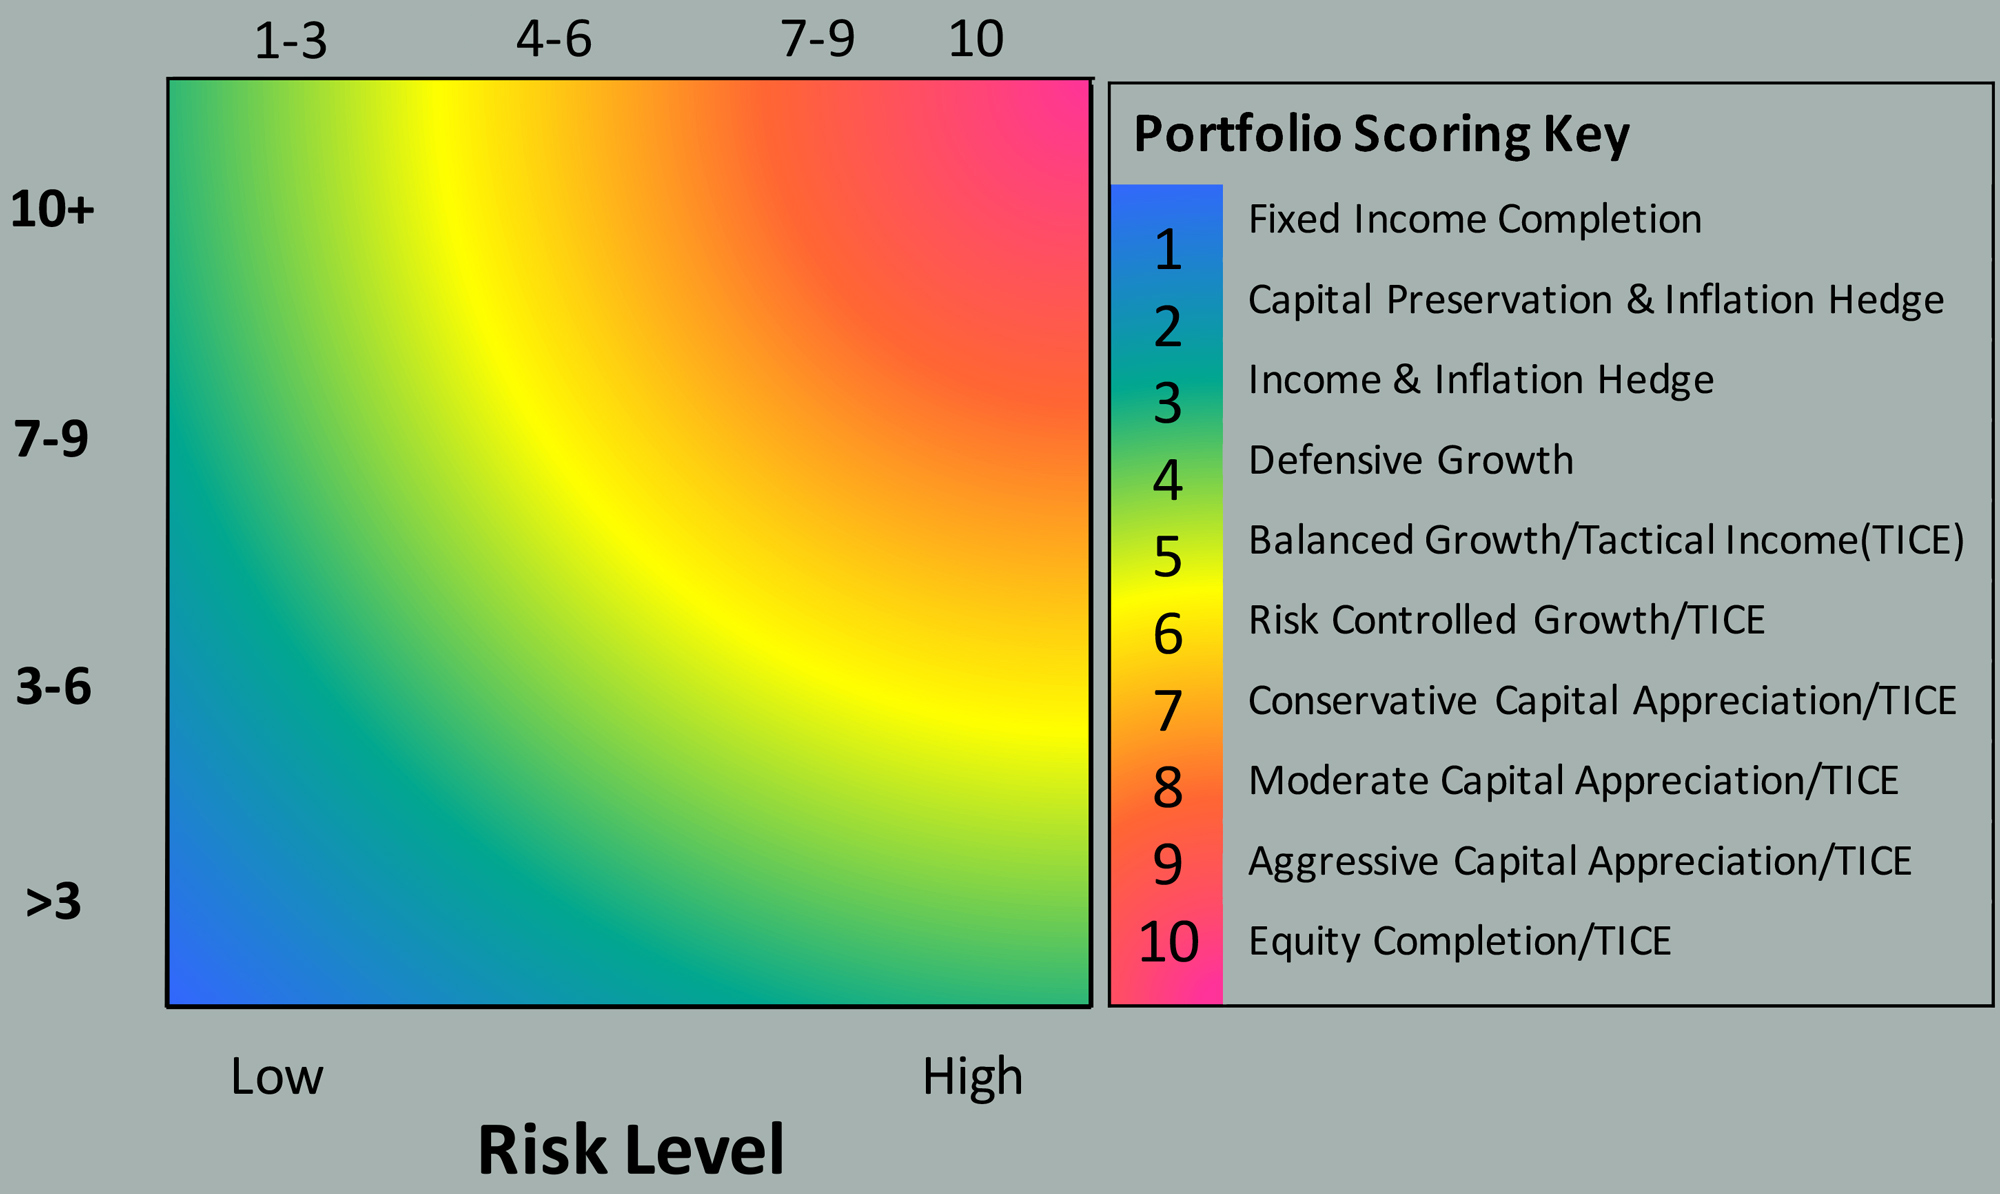
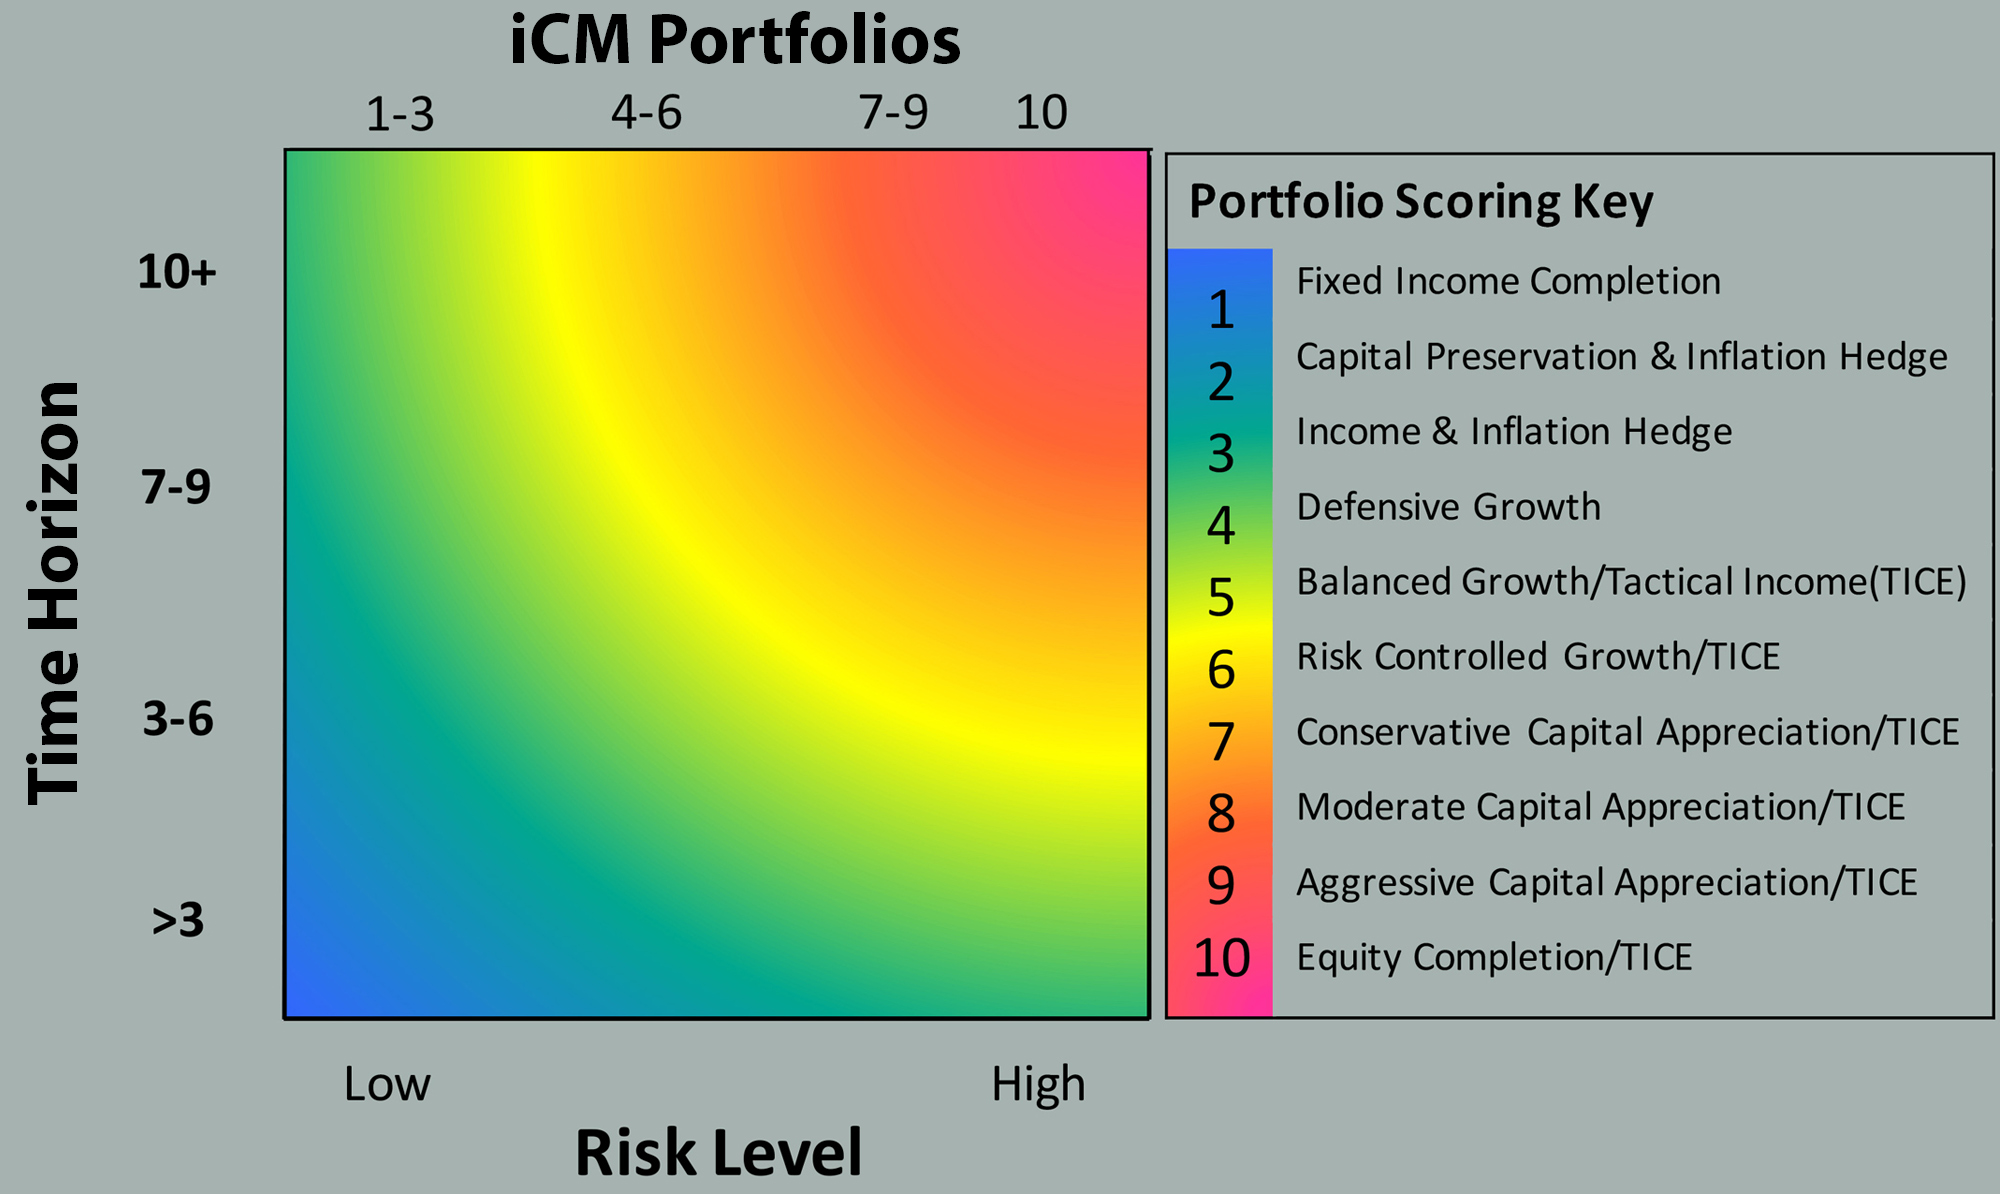
Updated graphic, recalibrate numbers to work with new graphic.

diff --git a/icm_invest/sites/all/themes/icm/templates/system/webform-confirmation-155.tpl.php b/icm_invest/sites/all/themes/icm/templates/system/webform-confirmation-155.tpl.php
@@ -249,21 +249,16 @@ switch(true){
     break;
     
 }
-    
-    
-    
-
-            
 
 echo 'Based on your Time Horizon and Risk Tolerance you may belong in the ' . $strategy_info[$strategy_id]['title'] . '. <p>'. $strategy_info[$strategy_id]['description']  .'</p>';
 //print_r($dataArray);
-$strategy_id = 5;
-$horizon = 12;
+//$strategy_id = 10;
+//$horizon = 10;
 //int_r($submission); ?>
 
 <div style="position:relative">
-<img style="position:absolute; width:8%; bottom:<?php  if($horizon <= 10){echo(14+ 13/2.2*$horizon).'%';}else{echo'77%';}; ?>; left:<?php echo (10/2.6*$strategy_id+7).'%'; ?>;"  src="/sites/all/themes/icm/images/icmlogo.png" />
-<img src="/sites/all/themes/icm/images/risk-matrix.jpg" />
+<img style="position:absolute; width:8%; bottom:<?php  if($horizon <= 10){echo(12+ 13/2.2*$horizon).'%';}else{echo'72%';}; ?>; left:<?php echo (10/2.7*$strategy_id+12).'%'; ?>;"  src="/sites/all/themes/icm/images/icmlogo.png" />
+<img style="width:100%" src="/sites/all/themes/icm/images/risk-matrix.jpg" />
 </div>
 <p><em>All data presented in this matrix is prepared using information we believe to be correct at the time of production, but may be subject to revision and/or adjustment. Graphs, charts, formulas and other data should not be used alone to determine investment decisions without considering all disclosure information, offering documents and other relevant data. </em></p>
 
